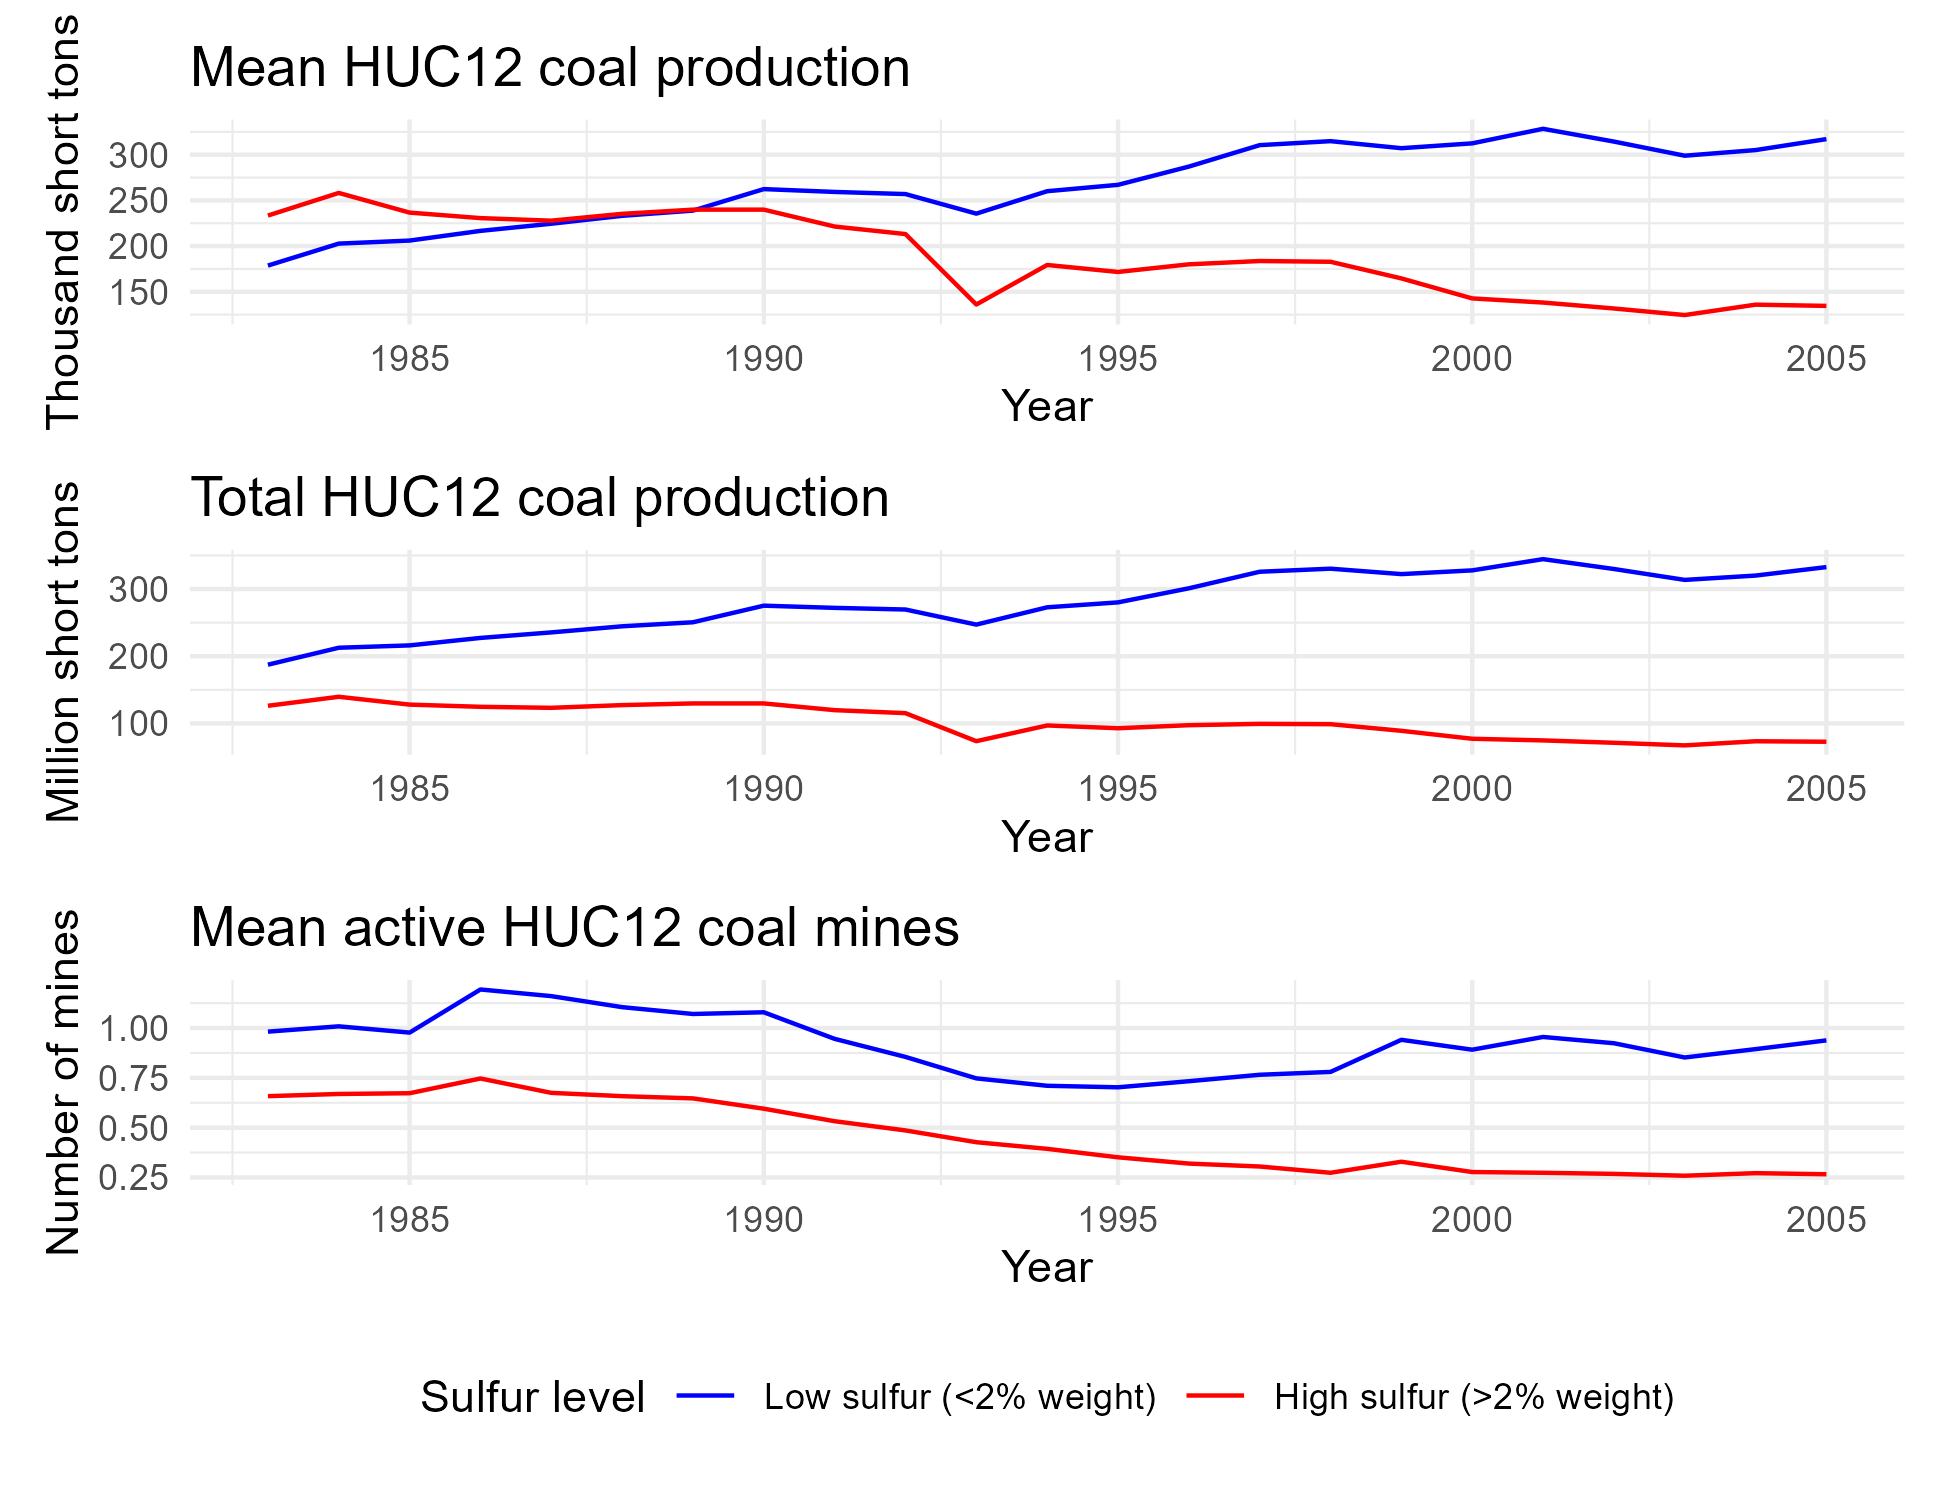
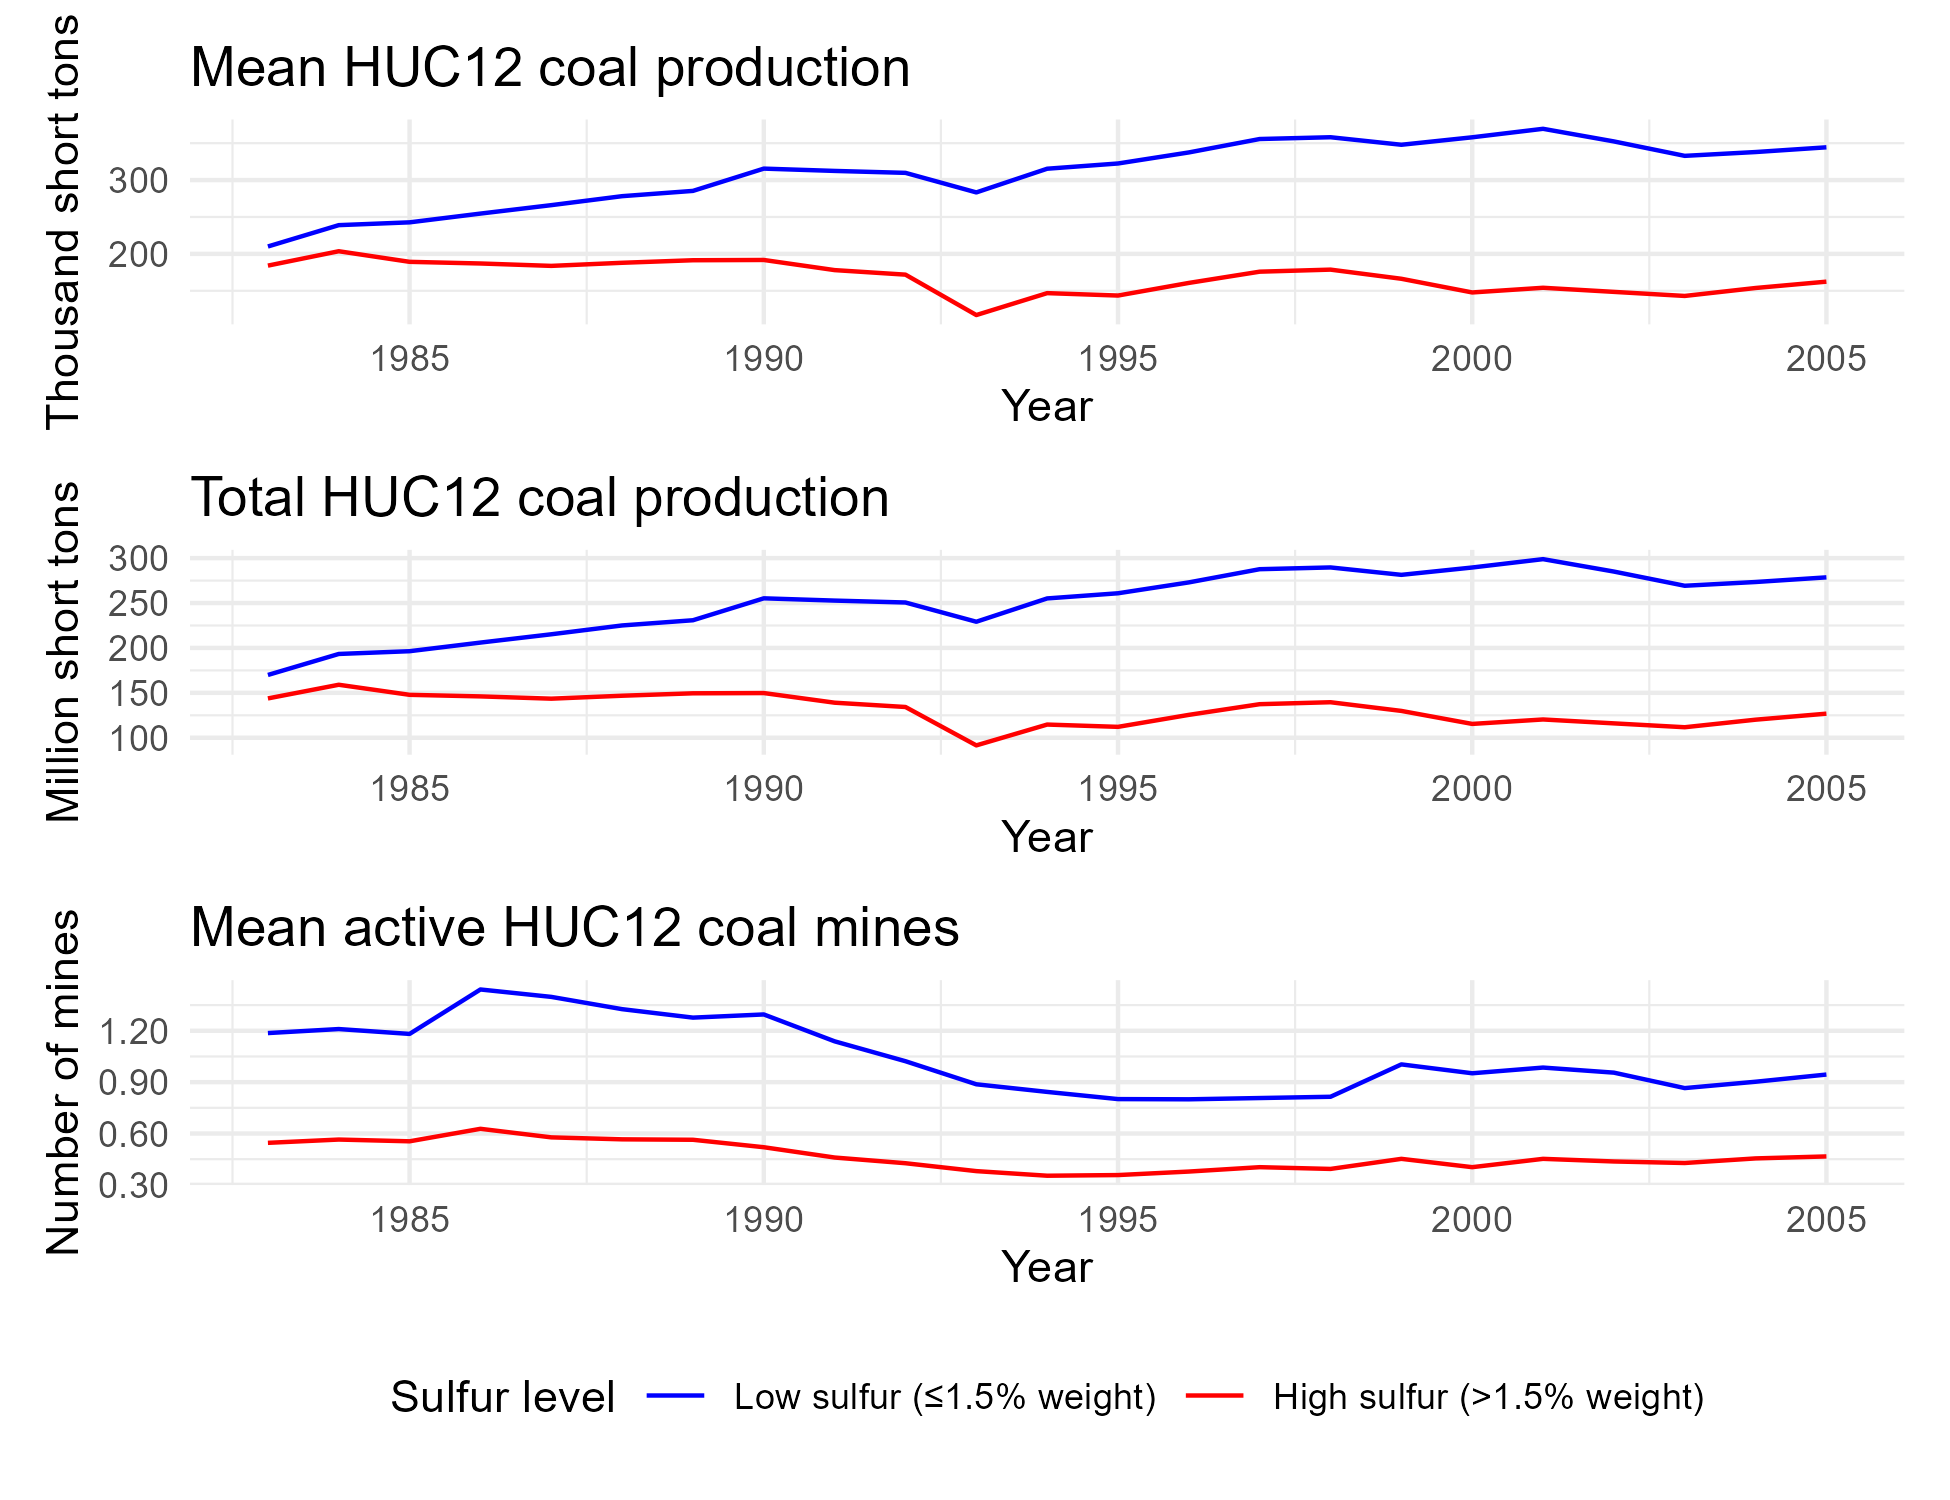
Add mine-level coal production by sulfur figure; standardize sulfur cutoff at 1.5%

diff --git a/writeup/The_Effect_of_Contamination_on_Contamination_Limit_Regulation__US_Coal_Mining_and_Drinking_Water_Utilities/job_app_jmp.tex b/writeup/The_Effect_of_Contamination_on_Contamination_Limit_Regulation__US_Coal_Mining_and_Drinking_Water_Utilities/job_app_jmp.tex
@@ -263,7 +263,7 @@ During the sample period, coal fired power plants increased their demand for low
 
 Emissions were capped in two phases. In Phase I, the EPA issued emission permits and allowances to 110 highly polluting, mostly coal-fired electricity-generating facilities. Facilities targeted under Phase I were required to achieve compliance with SO2 emission reductions by 1995. Phase II included smaller power-generating units that used oil, coal, and gas. The deadline for compliance with Phase II was January 1, 2000. I focus on the Phase I deadline because it targeted the largest coal-fired power plants, which were the largest customers for coal since the electric power industry accounted for 90 percent of coal demand in 2000 \parencite{freme2000us}. The ARP increased the demand for low-sulfur coal and reduced the demand for high-sulfur coal \parencite{epaarpcoalemp, stratford2015coalprod}. Mines producing high-sulfur coal have a limited ability to post-process the coal to remove sulfur since part of the sulfur is integral to the chemical structure of the coal and cannot be removed \parencite{wheelock1984coal}.
 
-Coal fired power plants were the main destination for US coal production, so the national coal supply responded by reducing production of high sulfur coal while slightly increasing production of low sulfur coal. Figure \ref{map:map_huc12_main_sample} plots national coal production by sulfur content. The reduction in high sulfur coal production beginning around 1990, five years before the ARP deadline, reflects coal fired power plants switching coal suppliers in anticipation of the ARP deadline, since 70\% of coal was supplied through contracts lasting between one and fifty years, while 15\% of coal was purchased on the spot market, and 15\% was sourced through vertically integrated coal mines and electric utilities \parencite{joskow1987price}. 
+Coal fired power plants were the main destination for US coal production, so the national coal supply responded by reducing production of high sulfur coal while slightly increasing production of low sulfur coal. Figure \ref{plot:coal_summary_plot_mines} plots national coal production by sulfur content. The reduction in high sulfur coal production beginning around 1990, five years before the ARP deadline, reflects coal fired power plants switching coal suppliers in anticipation of the ARP deadline, since 70\% of coal was supplied through contracts lasting between one and fifty years, while 15\% of coal was purchased on the spot market, and 15\% was sourced through vertically integrated coal mines and electric utilities \parencite{joskow1987price}. 
 
 \section{Theoretical model}\label{sec:model}
 	
@@ -371,7 +371,7 @@ My IV relies on predicting coal production from the sulfur content of coal and w
 
 The demand for coal from each mine depends on the physical characteristics of its coal. Thus, the coal production upstream of a utility depends on the average sulfur percentage in coal deposits in the watersheds where the utility's intakes are located and those that are upstream of the intakes. I measure a utility's upstream coal sulfur as the mean sulfur percentage across all watersheds within two watersheds upstream of its intakes. I use the USGS COALQUAL dataset to measure the sulfur percentages present in coal within a watershed. The USGS COALQUAL dataset consists of geospatially explicit drilled coal core samples from across the US. Samples measure characteristics, including the percentage of coal weight that consists of sulfur. I match COALQUAL samples to watershed boundaries that lie within 20 km of their coordinates, irrespective of whether coal production took place in that watershed. I assign a sulfur value of zero to watersheds that I cannot match to a drilled coal core sample. This approximates coal deposits with the potential to be extracted. The mismeasurement of sulfur levels due to extreme variation within watersheds, where some high-sulfur coal watersheds may actually contain low-sulfur coal, is not an issue since watersheds have low variation in measured coal sulfur levels.
 
-High-sulfur (greater than two percent sulfur) coal production fell between 1985 and 2005, while low-sulfur (less than two percent sulfur) coal production was more resilient and in some places increased. Figure \ref{hist:sulfurhuc12} plots a histogram of the sulfur percentage of the coal bed within the watersheds where a utility water intake and coal production are located. The sulfur content of watersheds' coal beds ranges from zero to 4.5 percent, with most of the watersheds below 1.5 percent. Slightly more than half of the watersheds have low-sulfur coal beds.  
+High-sulfur (greater than 1.5 percent sulfur) coal production fell between 1985 and 2005, while low-sulfur (1.5 percent or less sulfur) coal production was more resilient and in some places increased. Figure \ref{hist:sulfurhuc12} plots a histogram of the sulfur percentage of the coal bed within the watersheds where a utility water intake and coal production are located. The sulfur content of watersheds' coal beds ranges from zero to 4.5 percent, with most of the watersheds below 1.5 percent. Slightly more than half of the watersheds have low-sulfur coal beds.  
 
 In Figure \ref{map:map_huc12_main_sample}, the watersheds that contain coal production and are upstream of a utility water intake are green, while the watersheds that contain coal production and are not upstream of a utility are red. Most watersheds in my sample are located in Pennsylvania, Kentucky, and West Virginia. The eastern coal fields more frequently occur in watersheds upstream of drinking water utilities. Western coal production takes place more frequently in watersheds without utility water intakes and is less well represented in my sample.
 
@@ -650,6 +650,14 @@ The findings here suggest that the regulatory design of the SDWA, which relies o
 %\textit{Notes:} Panels show the distribution of the number of days each violation lasts for the arsenic, nitrate, and inorganic chemical contaminant categories analyzed in this paper. Violation length is measured as the number of days between a violation's recorded start and end dates.}
 %\end{figure}
 %\clearpage
+
+\begin{figure}
+\centering
+\outfig[0.8\linewidth]{coal_summary_plot_mines.png}
+\caption{\raggedright Coal production trends by percent of sulfur in coal by weight, 1983 to 2005.}
+\label{plot:coal_summary_plot_mines}
+\end{figure}
+\clearpage
 
 \begin{figure}
 \centering
